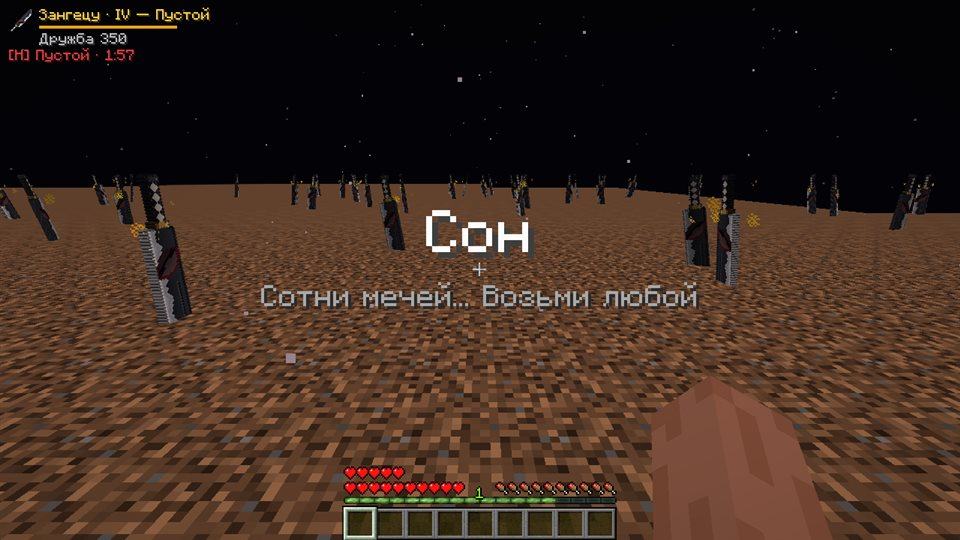
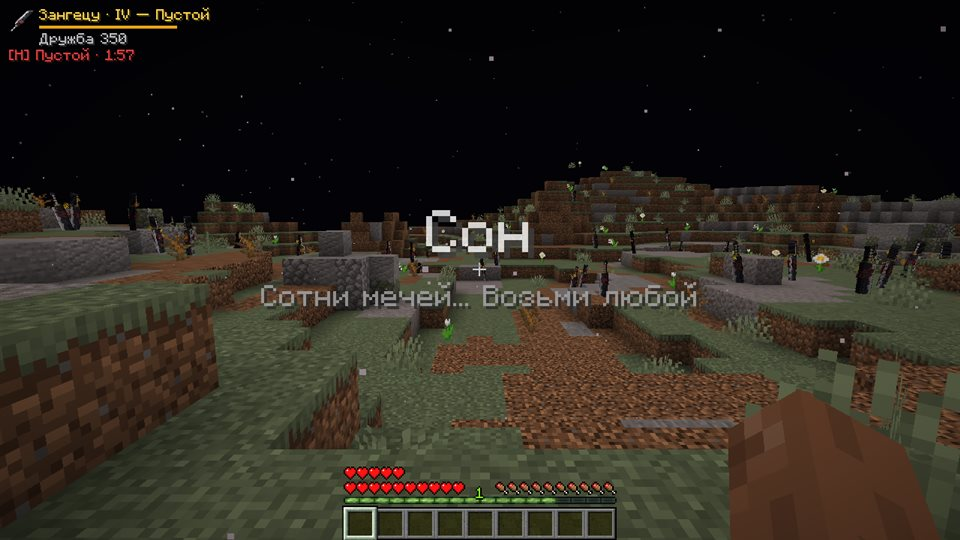
Refresh README for 1.1.0

diff --git a/README.md b/README.md
@@ -6,14 +6,16 @@
 |---|---|
 | ![Фигура в небе бросает меч](docs/awakening.jpg) | ![Меч вонзился лезвием в землю](docs/sword_stuck.jpg) |
 | *Одно сердце — в небе появляется фигура с мечом* | *Зангецу вонзается лезвием в землю перед тобой* |
-| ![Касание рукояти](docs/touch.jpg) | ![Стрелы рассечены пополам](docs/arrows.jpg) |
-| *Коснулся рукояти — меч выбрал тебя* | *Ночью меч рассекает стрелы пополам* |
+| ![Касание рукояти](docs/touch.jpg) | ![Объёмный меч в руке](docs/sword_3p.jpg) |
+| *Коснулся рукояти — меч выбрал тебя* | *Объёмный Зангецу: лезвие вниз, глаз живой* |
+| ![Гецуга Теншо](docs/getsuga.jpg) | ![Стрелы рассечены пополам](docs/arrows.jpg) |
+| *Гецуга Теншо — чёрный серп с алым светом* | *Ночью меч рассекает стрелы пополам* |
 | ![Зомби без рук](docs/zombie_arms.jpg) | ![Казнь](docs/execution.jpg) |
 | *Обе руки отсечены — можно казнить* | *Казнь: голова отлетает* |
 | ![Эндермен рассечён пополам](docs/enderman.jpg) | ![Маска Пустого](docs/hollow_mask.jpg) |
 | *Эндермен без колен рассечён пополам* | *Форма Пустого: маска, рога, горящий глаз* |
 | ![Серповидная луна](docs/crescent_moon.jpg) | ![Сон с сотнями мечей](docs/dream.jpg) |
-| *В небе проступает серповидная луна* | *Потерял меч — во сне его ждут сотни мечей* |
+| *Обычная луна исчезает — в небе кровавый серп* | *Сон: бескрайние холмы и сотни мечей* |
 
 ## Установка
 
@@ -38,9 +40,11 @@
 - Его нельзя положить в сундук, печь, на верстак, повесить в рамку или отдать стойке.
 - Он **не выпадает при смерти** — после возрождения он снова у тебя.
 - Не ломается и не горит в лаве.
-- Если меч всё же пропал (например, удалён в творческом режиме), **ляг спать**: тебе приснится поле, где в землю воткнуты **сотни одинаковых Зангецу**. Подойди к любому и возьми его — меч поднимается из земли, экран заливает белым, и ты **просыпаешься утром с мечом и всей его прокачкой**.
+- Если меч всё же пропал (например, удалён в творческом режиме), **ляг спать**: тебе приснится бескрайняя холмистая земля с валунами и травой, где в землю воткнуты **сотни одинаковых Зангецу** — куда ни беги, впереди появляются новые. Подойди к любому и возьми его — меч поднимается из земли, экран заливает белым, и ты **просыпаешься утром с мечом и всей его прокачкой**.
 
 ### Глаз и дружба
+
+Меч объёмный, а глаз на клинке — живая 3D-деталь с обеих сторон: он смотрит на ближайшего злого моба, а если их нет — на тебя, иногда поглядывает по сторонам и моргает. В инвентаре он следит за курсором.
 
 На клинке живёт глаз, и с ним надо подружиться: **убивай злых мобов и щади добрых**.
 
@@ -68,9 +72,9 @@
 
 ### Форма Пустого
 
-На IV уровне клавиша **H** превращает тебя в Пустого: ты раскидываешь руки и ревёшь, на лице нарастает костяная **маска с алыми полосами и длинными рогами**, за спиной — рыжие волосы, в груди — дыра. **Глаз меча горит**, а высоко в небе проступает **серповидная луна** (её видят все рядом).
+На IV уровне клавиша **H** превращает тебя в Пустого: ты раскидываешь руки и ревёшь, на лице нарастает костяная **маска с алыми полосами и длинными рогами**, за спиной — рыжие волосы, в груди — дыра. **Глаз меча горит**, обычная луна исчезает, а высоко в небе проступает **кровавая серповидная луна** — небо и туман краснеют (это видят все рядом).
 
-В этой форме: сила, скорость, сопротивление урону, регенерация, все способности меча работают даже днём, парирование — всегда. **ПКМ с мечом** — **Гецуга Теншо**: чёрный серп с алой кромкой срывается с клинка и рубит злых мобов на своём пути.
+В этой форме: сила, скорость, сопротивление урону, регенерация, все способности меча работают даже днём, парирование — всегда. **ПКМ с мечом** — **Гецуга Теншо**: огромный чёрный серп с алым свечением и раскалённой кромкой срывается с клинка, оставляя шлейф, и рубит злых мобов на своём пути.
 
 На всё — **2 минуты в игровые сутки**, их можно тратить частями (H ещё раз — снять маску). Когда время выходит, маска раскалывается, и ты ненадолго истощён.
 
